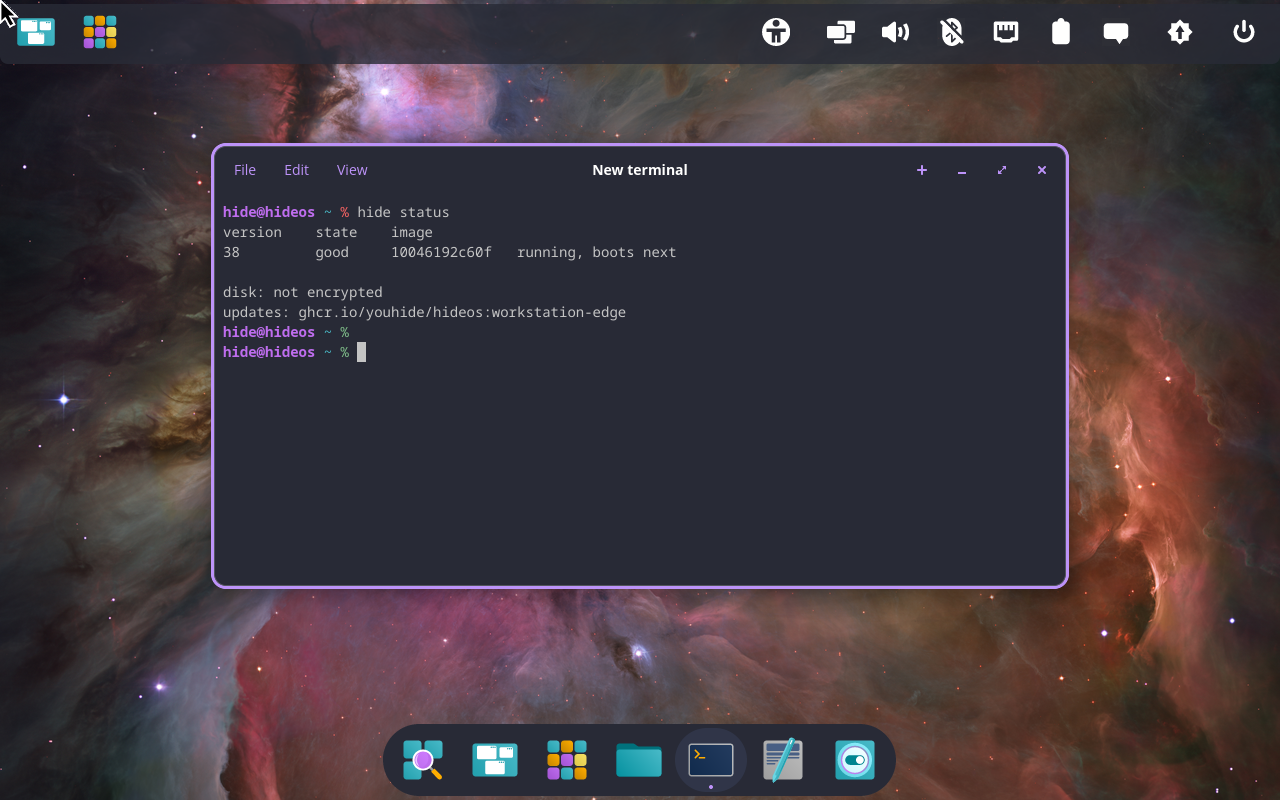
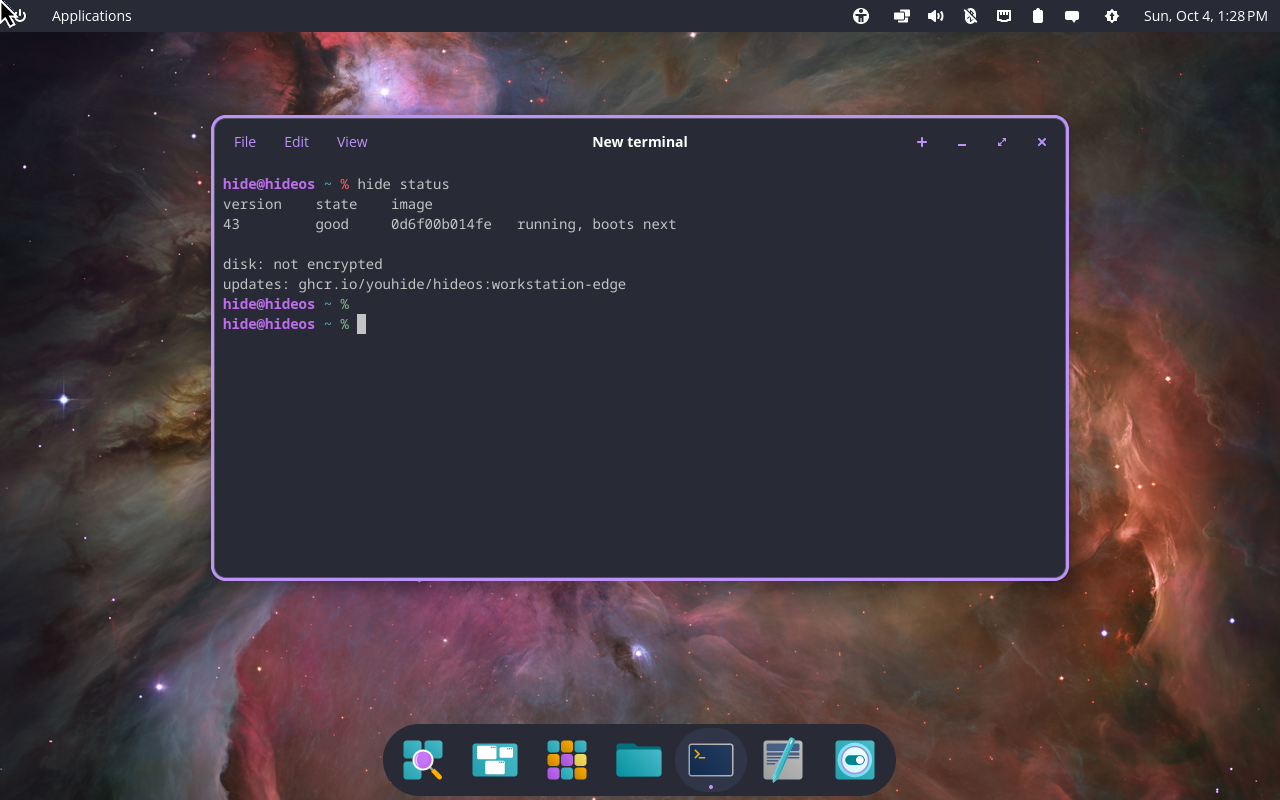
README and site: the menu bar like a Mac's, with oxinit v0.2.0

diff --git a/site/index.html b/site/index.html
@@ -197,10 +197,10 @@
         <span class="term__path">qemu-system-x86_64: hideOS workstation</span>
       </div>
       <div class="term__body">
-        <img src="desktop.jpg" width="1280" height="800" loading="lazy" alt="The COSMIC desktop on hideOS in the Dracula theme: a terminal with purple accents shows hide status — version 38, good, running, boots next; the disk not encrypted; updates from ghcr.io/youhide/hideos:workstation-edge — over the Orion nebula wallpaper, with the panel above and the dock below.">
+        <img src="desktop.jpg" width="1280" height="800" loading="lazy" alt="The COSMIC desktop on hideOS in the Dracula theme: a thin menu bar with the system menu and Applications on the left, status icons and Sun, Oct 4 with the time on the right; a terminal with purple accents shows hide status — good, running, boots next; the disk not encrypted; updates from ghcr.io/youhide/hideos:workstation-edge — over the Orion nebula wallpaper, with the dock below.">
       </div>
     </div>
-    <p class="shot__caption"># hide status, as the person: the deployment that runs, the disk, and where updates come from. the panel's arrow is the update applet: restart to update, once one is staged.</p>
+    <p class="shot__caption"># a menu bar laid out like a Mac's: the system menu on the left, the clock in the corner, the update applet beside it. hide status, as the person: the deployment that runs, the disk, and where updates come from.</p>
   </section>
 
   <hr class="rule">

diff --git a/README.md b/README.md
@@ -19,7 +19,7 @@ ghcr.io/youhide/hideos and rolls back by itself, with a hardware watchdog
 for a boot that hangs. Not yet for daily use; see [ROADMAP.md](ROADMAP.md). Site and wiki:
 <https://youhide.github.io/hideOS/>.
 
-![hideOS Workstation: the COSMIC desktop in hideOS's Dracula theme, a terminal showing `hide status` — the running deployment, the disk, and updates from ghcr.io/youhide/hideos:workstation-edge](docs/images/workstation-desktop.png)
+![hideOS Workstation: the COSMIC desktop in hideOS's Dracula theme, its menu bar laid out like a Mac's, a terminal showing `hide status` — the running deployment, the disk, and updates from ghcr.io/youhide/hideos:workstation-edge](docs/images/workstation-desktop.png)
 
 ![Settings → System → Updates: updates from the edge channel with "Update now", the deployment that runs, and going back to the previous one](docs/images/workstation-updates.png)
 
